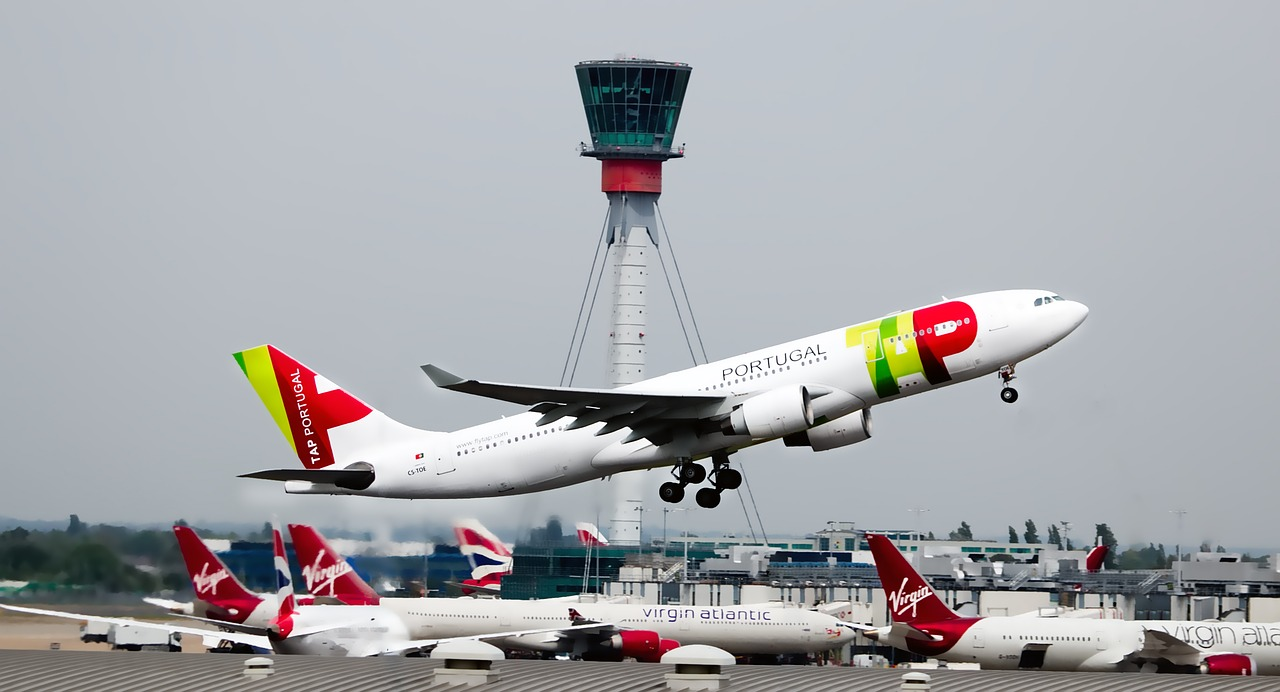
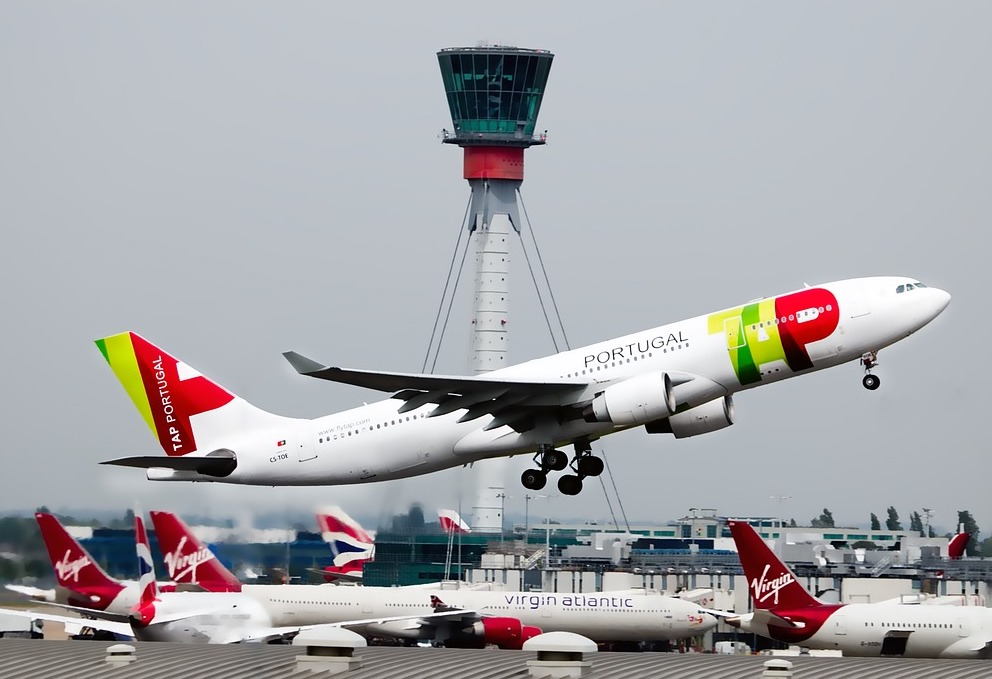
Began styling of the header section with Flexbox and CSS

Changed region(s): [[0.0, 0.0619, 1.0, 1.0]]

diff --git a/index.html b/index.html
@@ -17,10 +17,14 @@
             </div>
         </div>
         <div class="mainheadercontent">
-            <h1>This Website Is Awesome</h1>
-            <p>This website has some subtext that goes here under the main title.  It's a smaller font and the text is lower contrast.</p>
-            <button type="button">Sign Up</button>
-            <img src="img/tapa330.jpg" alt="A TAP A330 lifting off at London Heathrow">
+            <div class="headerlefthandside">
+                <h1>This Website Is Awesome</h1>
+                <p>This website has some subtext that goes here under the main title.  It's a smaller font and the text is lower contrast.</p>
+                <button type="button">Sign Up</button>
+            </div>
+            <div class="headerrighthandside">
+                <img class="mainavgeekpics" src="img/tapa330.jpg" alt="A TAP A330 lifting off at London Heathrow">
+            </div>
         </div>
     </header>
 

diff --git a/styles.css b/styles.css
@@ -12,7 +12,29 @@ header {
     flex: 0;
 }
 
+.mainavgeekpics {
+    width: 100%;
+    height: auto;
+}
+
 .topline {
     display: flex;
     justify-content: space-between;
+    padding: 10px 0px 70px 0px;
+}
+
+.mainheadercontent {
+    display: flex;
+    justify-content: space-between;
+}
+
+.headerlefthandside {
+    display: flex;
+    flex-direction: column;
+    padding: 35px;
+}
+
+.headerrighthandside {
+    display: flex;
+    align-items: center;
 }
